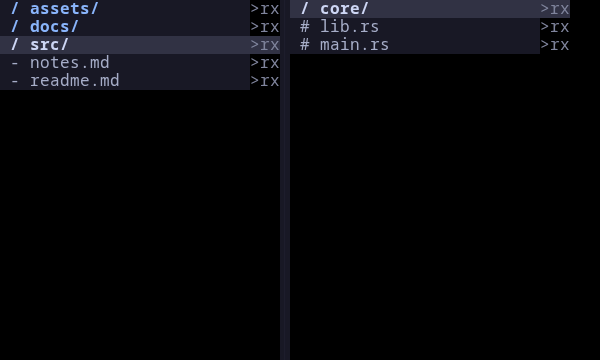
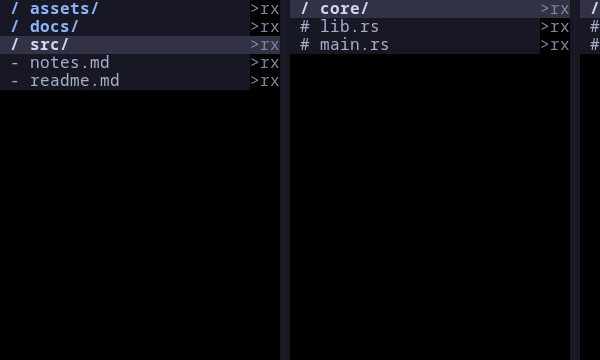
test: approve fractional miller scroll visual

Changed region(s): [[0.93, 0.0, 1.0, 1.0]]

diff --git a/tests/visual/fractional-scroll.spec.ts b/tests/visual/fractional-scroll.spec.ts
@@ -1,0 +1,43 @@
+import { test, expect } from "@playwright/test";
+import { readFileSync } from "node:fs";
+import { fileURLToPath } from "node:url";
+
+const harness = fileURLToPath(new URL("./harness/grid.html", import.meta.url));
+
+type CellFixture = {
+  name: string;
+  width: number;
+  height: number;
+  cells: unknown[];
+};
+
+function loadGenerated(name: string): CellFixture {
+  const path = fileURLToPath(
+    new URL(`./fixtures/generated/${name}.json`, import.meta.url),
+  );
+  return JSON.parse(readFileSync(path, "utf8")) as CellFixture;
+}
+
+// VIS-12: a real Ratatui Trail buffer at an offset inside the second
+// mixed-width column. Both the clipped leading suffix and the beginning of
+// the trailing column must remain visible.
+test("vis-12 fractional miller scroll matches approved snapshot", async ({
+  page,
+}) => {
+  const fixture = loadGenerated("vis-12-fractional-miller-scroll");
+  expect(fixture).toMatchObject({
+    name: "vis-12-fractional-miller-scroll",
+    width: 60,
+    height: 20,
+  });
+  expect(fixture.cells).toHaveLength(fixture.width * fixture.height);
+
+  await page.goto(`file://${harness}`);
+  await page.evaluate(
+    (value) => (window as any).renderFixture(value),
+    fixture,
+  );
+  await expect(page.locator("#grid")).toHaveScreenshot(
+    "vis-12-fractional-miller-scroll.png",
+  );
+});

diff --git a/src/ui/visual_fixture.rs b/src/ui/visual_fixture.rs
@@ -348,6 +348,8 @@ mod tests {
                 "trail fixture descent must load"
             );
         }
+        let fractional_trail = trail.clone();
+        let fractional_snaps = snaps.clone();
         assert!(trail.select_file(3, &detail.join("alpha.rs")));
         let render_trail = |trail: &crate::fm::trail::TrailState,
                             snaps: &crate::fm::trail_snapshots::TrailSnapshots,
@@ -407,6 +409,57 @@ mod tests {
             &out_dir,
             export_cell_fixture("vis-11-trail-horizontal-scroll", &render_scrolled_trail(0)),
         );
+
+        // VIS-12 (fractional Trail viewport): the viewport begins ten cells
+        // inside the 30-cell second column, so the leading column is clipped
+        // to 20 cells and the 48-cell trailing column begins at the right
+        // edge. The fixture is the real Ratatui buffer, not an HTML layout
+        // reconstruction.
+        {
+            let width = 60;
+            let height = 20;
+            let preferred_widths = [18_u16, 30, 48, 24];
+            let offset_cells = 18_u32 + 1 + 10;
+            let stage = Rect::new(0, 0, width, height);
+            let view = crate::ui::file_manager::trail_view::project_trail_view_with_origin(
+                stage,
+                &fractional_trail,
+                &fractional_snaps,
+                &preferred_widths,
+                crate::ui::file_manager::trail_view::TRAIL_DETAIL_PANEL_DEFAULT_WIDTH,
+                offset_cells,
+            );
+            let leading = view.columns.first().expect("fractional leading column");
+            let trailing = view.columns.last().expect("fractional trailing column");
+            assert_eq!(
+                (leading.trail_index, leading.source_x, leading.rect.width),
+                (1, 10, 20)
+            );
+            assert_eq!(trailing.trail_index, 2);
+            assert!(
+                trailing.rect.width > 0 && trailing.rect.width < trailing.logical_width,
+                "fixture must expose the beginning of a clipped trailing column"
+            );
+            let backend = TestBackend::new(width, height);
+            let mut terminal = Terminal::new(backend).expect("fractional trail terminal");
+            terminal
+                .draw(|frame| {
+                    crate::ui::file_manager::trail_view::render_trail_view(
+                        &trail_app,
+                        frame,
+                        &view,
+                        &fractional_snaps,
+                    );
+                })
+                .expect("render fractional trail frame");
+            write_fixture(
+                &out_dir,
+                export_cell_fixture(
+                    "vis-12-fractional-miller-scroll",
+                    terminal.backend().buffer(),
+                ),
+            );
+        }
 
         // Rebranch: reselect the sibling `docs` at the ROOT column — the old
         // src/core/detail branch is discarded and the trail regrows.